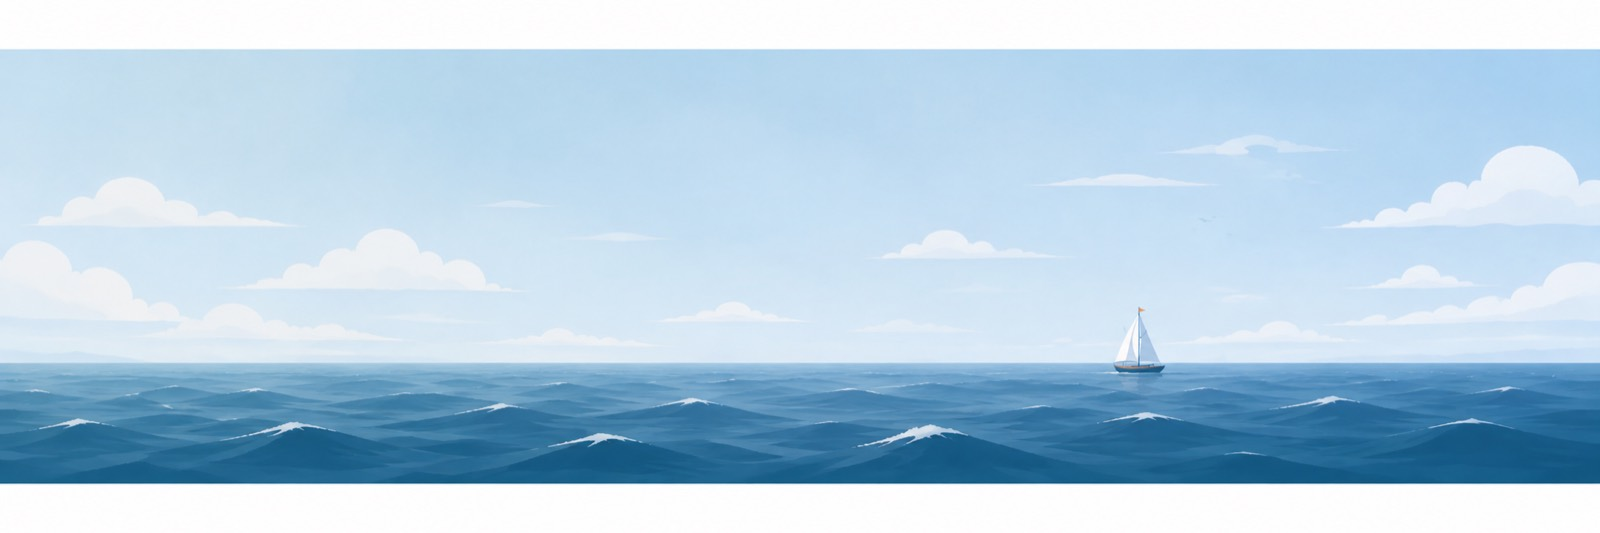
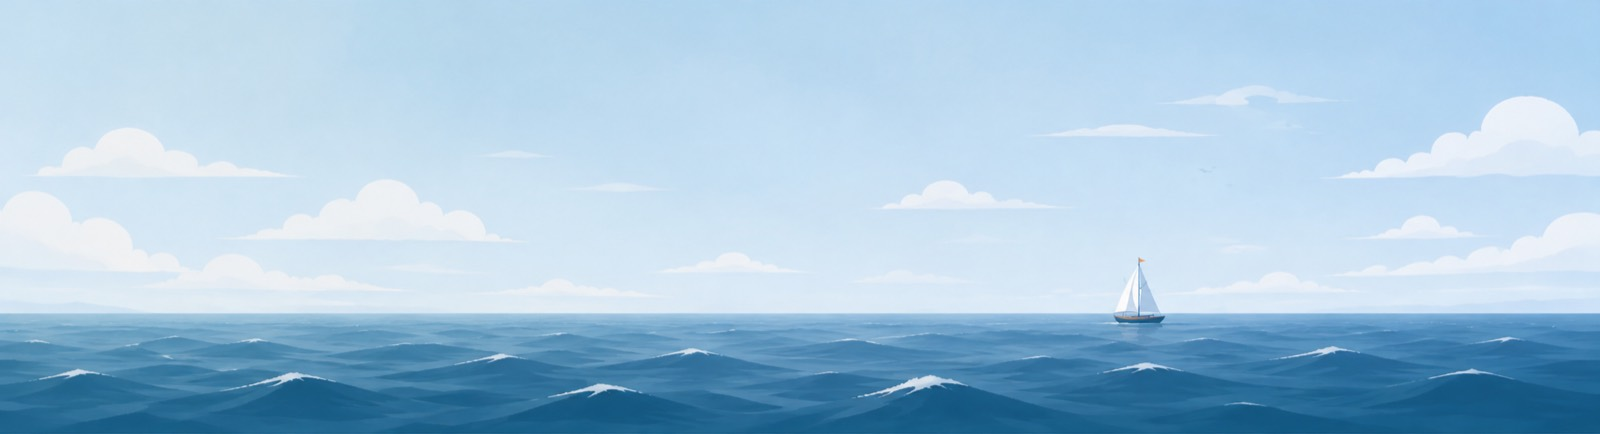
Add files via upload

diff --git a/schueler/stil.css b/schueler/stil.css
@@ -357,24 +357,34 @@ button {
    3:1 und wird nie beschnitten -- dieselbe Regel wie beim Titelbild der
    Startseite. Auf sehr flachen Fenstern wuerde die Karte sonst den ganzen
    Bildschirm fuellen, deshalb die Hoehenbremse. */
-/* Anders als beim Titelbild der Startseite ist hier ein Beschnitt gewollt: Die
-   Karte wird auf dem iPad quer ueber 1000 px breit, ein volles 3:1-Bild waere
-   fast 400 px hoch und wuerde alles darunter erschlagen. Deshalb feste Bandhoehe
-   statt `aspect-ratio` -- die beiden zusammen ziehen ausserdem die Breite mit,
-   und rechts bliebe ein weisser Streifen. */
+/* Das Bild behaelt sein Verhaeltnis von 3:1 und ist damit auf Handy und iPad
+   vollstaendig zu sehen -- dort wird nichts beschnitten. Wo doch gedeckelt wird
+   (siehe Media Query weiter unten), faellt dank `object-position: bottom` nur
+   oben Himmel weg; Boot, Anker und Boje sitzen unten im Motiv und bleiben.
+   `aspect-ratio` und `max-height` duerfen nicht zusammen stehen -- die beiden
+   ziehen auch die Breite mit, und rechts bliebe ein weisser Streifen. */
 .ausweis-bild {
   display: block;
   width: 100%;
-  height: clamp(6.5rem, 20vw, 11rem);
+  height: auto;
+  aspect-ratio: 3 / 1;
   object-fit: cover;
+  object-position: center bottom;
   background: var(--grund);
+}
+
+/* Ab hier waere ein volles 3:1-Band ueber 380 px hoch und wuerde die Karte
+   erschlagen. Feste Hoehe statt `aspect-ratio` (die beiden vertragen sich mit
+   einer Hoehenbremse nicht); beschnitten wird dann oben, nicht unten. */
+@media (min-width: 75rem) {
+  .ausweis-bild { aspect-ratio: auto; height: 15rem; }
 }
 
 .ausweis-text {
   position: relative;
-  padding: 1.5rem;
+  padding: 1.25rem 1.5rem;
   padding-right: 8.5rem;
-  min-height: 9.5rem;
+  min-height: 8rem;
 }
 
 .ausweis-symbol {
@@ -393,13 +403,24 @@ button {
   .ausweis-symbol { filter: invert(1) brightness(1.15); }
 }
 
-@media (max-width: 22rem) {
+/* Auf schmalen Geraeten weicht das Stufensymbol: Es zeigt dasselbe wie das
+   Bild darueber, und ohne es passt „Ich lerne an der Boie" in eine Zeile. */
+@media (max-width: 30rem) {
   .ausweis-text { padding-right: 1.5rem; }
   .ausweis-symbol { display: none; }
 }
 
-.ausweis-oben { margin: 0; color: var(--text-leise); }
-.ausweis-stufe { margin: 0.15rem 0 0.5rem; font-size: 2rem; font-weight: 700; color: var(--stufe); }
+/* Eine Zeile statt zwei („Ich lerne" / „Hafen") -- das gewonnene Stueck Hoehe
+   bekommt das Bild darueber. „Ich lerne" bleibt leichter gesetzt, damit die
+   Stufe trotzdem das Betonte in der Zeile ist. */
+.ausweis-stufe {
+  margin: 0 0 0.4rem;
+  font-size: clamp(1.3rem, 4.2vw, 1.9rem);
+  line-height: 1.2;
+  font-weight: 700;
+  color: var(--stufe);
+}
+.ausweis-lerne { font-weight: 400; }
 .ausweis-motto { margin: 0; color: var(--text-leise); font-style: italic; }
 
 .liste { list-style: none; margin: 0; padding: 0; display: grid; gap: 0.6rem; }
@@ -779,8 +800,8 @@ button {
   .liste { grid-template-columns: 1fr 1fr; }
   .liste-verantwortung .gruppe { grid-column: 1 / -1; }
 
-  .ausweis-text { padding-right: 11rem; min-height: 10.5rem; }
-  .ausweis-symbol { max-width: 8rem; height: 7.5rem; }
+  .ausweis-text { padding-right: 10rem; min-height: 8.5rem; }
+  .ausweis-symbol { max-width: 7rem; height: 6.5rem; }
 
   .hilfe p, .hilfe ul { max-width: 46rem; }
 

diff --git a/schueler/index.html b/schueler/index.html
@@ -79,8 +79,9 @@
         <img class="ausweis-bild" id="ausweis-bild" src="" alt="" width="1600" height="533">
         <div class="ausweis-text">
           <img class="ausweis-symbol" id="ausweis-symbol" src="" alt="" width="160" height="160">
-          <p class="ausweis-oben">Ich lerne</p>
-          <p class="ausweis-stufe" id="ausweis-stufe">–</p>
+          <p class="ausweis-stufe">
+            <span class="ausweis-lerne">Ich lerne</span> <span id="ausweis-stufe">–</span>
+          </p>
           <p class="ausweis-motto" id="ausweis-motto"></p>
         </div>
       </div>

diff --git a/schueler/schueler.js b/schueler/schueler.js
@@ -235,7 +235,9 @@ function ausweisZeichnen() {
   const meine = stufe(katalog, profil.stufe);
 
   $('#titel-ausweis').textContent = profil.name;
-  $('#ausweis-stufe').textContent = meine.name;
+  // „Ich lerne im Hafen“ / „… an der Boie“ -- die Präposition kommt aus dem
+  // Katalog, damit hier keine zweite Schreibweise entsteht.
+  $('#ausweis-stufe').textContent = praeposition(meine.id);
   $('#ausweis-motto').textContent = meine.motto;
 
   const symbol = $('#ausweis-symbol');

diff --git a/sw.js b/sw.js
@@ -7,7 +7,7 @@
 // (Cache zuerst wäre schneller, würde aber alte Fassungen auf den iPads festhalten --
 // bei 25 Geräten, die man nicht einzeln entstauben kann, ein schlechter Tausch.)
 
-const FASSUNG = 'graduierung-v21';
+const FASSUNG = 'graduierung-v22';
 
 const VORRAT = [
   './',

diff --git a/LIESMICH.md b/LIESMICH.md
@@ -171,10 +171,22 @@ Alle Bilder sind **schmückend** (`alt=""`); ihre Aussage steht immer auch als T
 Die freigestellten Motive teilen sich die Klasse `.leer-bild`, die in beiden Stylesheets steht;
 im Druckbogen wird sie ausgeblendet.
 
-**Anders als beim Titelbild ist bei den Bändern ein Beschnitt gewollt**: Die Ausweiskarte wird
-auf dem iPad quer über 1000 px breit, ein volles 3:1-Bild wäre dort fast 400 px hoch. Deshalb
-feste Bandhöhe (`height: clamp(...)`) statt `aspect-ratio` -- die beiden zusammen ziehen
-ausserdem die Breite mit, und rechts bliebe ein weisser Streifen.
+Die Ausweiskarte zeigt ihr Stufenbild über `aspect-ratio: 3 / 1` **vollständig** -- auf Handy
+und iPad wird vertikal nichts beschnitten. Zwei Fallstricke stecken darin:
+
+- `aspect-ratio` und `max-height` dürfen nicht zusammenstehen: Die beiden ziehen auch die
+  Breite mit, und rechts bliebe ein weisser Streifen. Ab 75 rem Fensterbreite steht deshalb
+  eine feste `height` **statt** `aspect-ratio`.
+- `ankerplatz.jpg` und `freie-see.jpg` kamen mit weissen Balken oben und unten aus der
+  Bilderzeugung. Die sind entfernt; beide Bilder sind dadurch flacher als 3:1 und werden von
+  `object-fit: cover` seitlich statt vertikal beschnitten -- bei diesen Panoramen unkritisch.
+  **Bei neuen Bildern die Ränder prüfen**, solange sie beschnitten dargestellt werden, fällt
+  so etwas nicht auf.
+
+Die Kopfzeile der Karte lautet „Ich lerne im Hafen" -- eine Zeile statt zwei, ganz in der
+Stufenfarbe. Die Präposition kommt aus `praeposition()` im Katalog, damit hier keine zweite
+Schreibweise entsteht. Unter 30 rem weicht das kleine Stufensymbol: Es zeigt dasselbe wie das
+Bild darüber, und ohne es passt die Zeile aufs Handy.
 
 Die Prompts, aus denen die Bilder entstanden sind, stehen in `Graduierung-App/BILDPROMPTS.md`,
 die Originale in `Graduierung-App/Bildquellen/`. Neue Bilder gehören in den `VORRAT` in `sw.js`,
